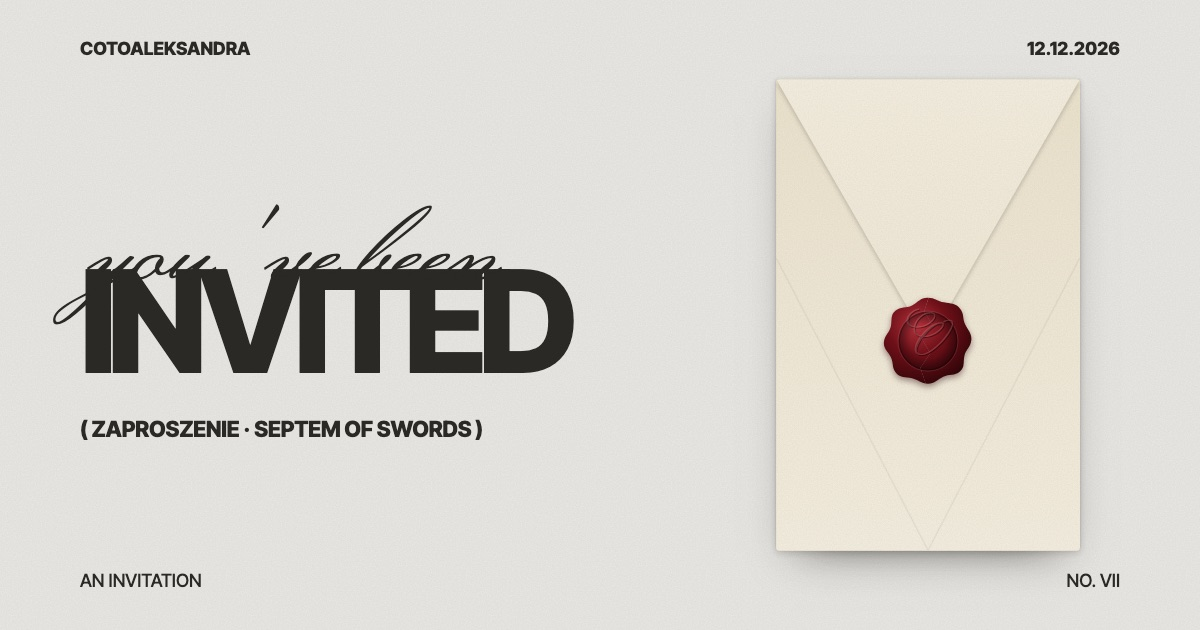
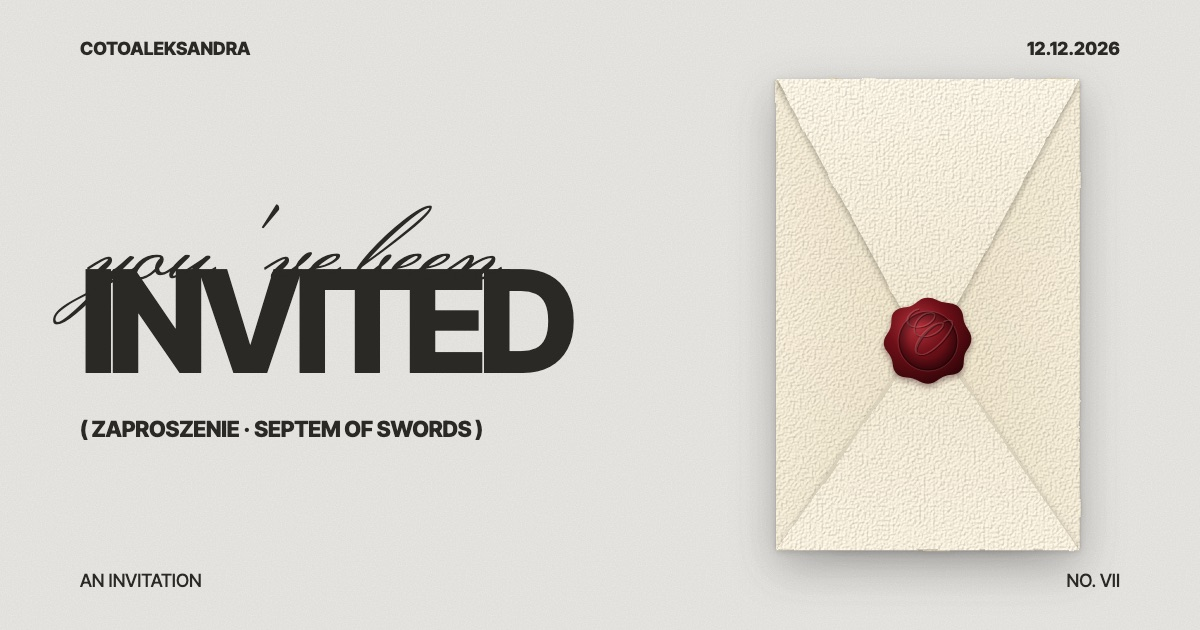
Rough paper envelope; seal peels off instead of cracking; keep open flap on screen

diff --git a/index.html b/index.html
@@ -32,7 +32,38 @@
     <section class="hero" id="hero">
       <div class="stage" id="stage">
         <!-- envelope parts are siblings of the card so the card can sit between them -->
-        <div class="env env-back"></div>
+        <svg class="env-defs" width="0" height="0" aria-hidden="true" focusable="false">
+          <defs>
+            <!-- rough paper: wobbly torn-ish edges + raised tooth lit from the top left -->
+            <filter id="paper-a" x="-4%" y="-4%" width="108%" height="108%" color-interpolation-filters="sRGB">
+              <feTurbulence type="fractalNoise" baseFrequency=".07" numOctaves="3" seed="4" result="warp"/>
+              <feDisplacementMap in="SourceGraphic" in2="warp" scale="1.1" xChannelSelector="R" yChannelSelector="G" result="shape"/>
+              <feTurbulence type="fractalNoise" baseFrequency="1.1" numOctaves="3" seed="11" result="tooth"/>
+              <feDiffuseLighting in="tooth" surfaceScale=".9" lighting-color="#fff" result="lit"><feDistantLight azimuth="225" elevation="52"/></feDiffuseLighting>
+              <feTurbulence type="fractalNoise" baseFrequency=".018" numOctaves="2" seed="2" result="mottle"/>
+              <feColorMatrix in="mottle" type="matrix" values="0 0 0 0 1  0 0 0 0 1  0 0 0 0 1  -.9 0 0 0 .95" result="mottleA"/>
+              <feComposite in="shape" in2="lit" operator="arithmetic" k1=".22" k2=".84" result="tex"/>
+              <feComposite in="tex" in2="mottleA" operator="arithmetic" k1="0" k2="1" k3="-.05" result="tex2"/>
+              <feComposite in="tex2" in2="shape" operator="in"/>
+            </filter>
+            <filter id="paper-b" x="-4%" y="-4%" width="108%" height="108%" color-interpolation-filters="sRGB">
+              <feTurbulence type="fractalNoise" baseFrequency=".07" numOctaves="3" seed="9" result="warp"/>
+              <feDisplacementMap in="SourceGraphic" in2="warp" scale="1.1" xChannelSelector="R" yChannelSelector="G" result="shape"/>
+              <feTurbulence type="fractalNoise" baseFrequency="1.1" numOctaves="3" seed="23" result="tooth"/>
+              <feDiffuseLighting in="tooth" surfaceScale=".9" lighting-color="#fff" result="lit"><feDistantLight azimuth="225" elevation="52"/></feDiffuseLighting>
+              <feComposite in="shape" in2="lit" operator="arithmetic" k1=".22" k2=".84" result="tex"/>
+              <feComposite in="tex" in2="shape" operator="in"/>
+            </filter>
+            <filter id="soft" x="-10%" y="-10%" width="120%" height="130%"><feGaussianBlur stdDeviation="1.1"/></filter>
+            <linearGradient id="g-back" x1="0" y1="0" x2="0" y2="1"><stop offset="0" stop-color="#d9cdb0"/><stop offset="1" stop-color="#e3d8bd"/></linearGradient>
+            <linearGradient id="g-side" x1="0" y1="0" x2="1" y2="0"><stop offset="0" stop-color="#efe7d3"/><stop offset="1" stop-color="#e6dcc3"/></linearGradient>
+            <linearGradient id="g-side-r" x1="1" y1="0" x2="0" y2="0"><stop offset="0" stop-color="#efe7d3"/><stop offset="1" stop-color="#e6dcc3"/></linearGradient>
+            <linearGradient id="g-bottom" x1="0" y1="1" x2="0" y2="0"><stop offset="0" stop-color="#f3ecdb"/><stop offset="1" stop-color="#ebe2cb"/></linearGradient>
+            <linearGradient id="g-flap" x1="0" y1="0" x2="0" y2="1"><stop offset="0" stop-color="#f5efe0"/><stop offset="1" stop-color="#ece3cc"/></linearGradient>
+            <linearGradient id="g-flap-in" x1="0" y1="1" x2="0" y2="0"><stop offset="0" stop-color="#dfd3b6"/><stop offset="1" stop-color="#e8dec5"/></linearGradient>
+          </defs>
+        </svg>
+        <div class="env env-back"><svg viewBox="0 0 116 180" aria-hidden="true"><rect width="116" height="180" rx="1.4" fill="url(#g-back)" filter="url(#paper-a)"/></svg></div>
 
         <div class="card" id="card" role="button" tabindex="-1" aria-label="card">
           <div class="card-inner">
@@ -61,8 +92,25 @@
           </div>
         </div>
 
-        <div class="env env-pocket-wrap"><div class="env-pocket"></div></div>
-        <div class="env env-flap-wrap" id="flap"><div class="env-flap"></div></div>
+        <div class="env env-pocket-wrap"><svg class="env-pocket" viewBox="0 0 116 180" aria-hidden="true">
+          <path d="M1.5 2 L58 93 L114.5 2 V178 H1.5 Z" fill="#e8dec6"/>
+          <g filter="url(#paper-a)">
+            <path d="M0 0 L55 91 Q57.5 95.5 54.5 99 L0 180 Z" fill="url(#g-side)"/>
+            <path d="M116 0 L61 91 Q58.5 95.5 61.5 99 L116 180 Z" fill="url(#g-side-r)"/>
+          </g>
+          <path d="M0 180 L53 104 Q58 97 63 104 L116 180 Z" transform="translate(0 -1.4)" fill="rgba(42,41,38,.12)" filter="url(#soft)"/>
+          <path d="M0 180 L53 104 Q58 97 63 104 L116 180 Z" fill="url(#g-bottom)" filter="url(#paper-b)"/>
+        </svg></div>
+        <div class="env env-flap-wrap" id="flap">
+          <svg class="env-flap" viewBox="0 0 116 180" aria-hidden="true">
+            <path d="M0 0 H116 L62 99 Q58 105 54 99 Z" transform="translate(0 1.6)" fill="rgba(42,41,38,.3)" filter="url(#soft)"/>
+            <path d="M0 0 H116 L62 99 Q58 105 54 99 Z" fill="url(#g-flap)" filter="url(#paper-b)"/>
+            <circle class="residue" cx="58" cy="100.5" r="14" filter="url(#soft)"/>
+          </svg>
+          <svg class="env-flap env-flap-in" viewBox="0 0 116 180" aria-hidden="true">
+            <path d="M0 180 H116 L62 81 Q58 75 54 81 Z" fill="url(#g-flap-in)" filter="url(#paper-a)"/>
+          </svg>
+        </div>
 
         <button class="seal" id="seal" aria-label="Open the envelope">
           <svg viewBox="0 0 120 120" aria-hidden="true">
@@ -76,8 +124,6 @@
                 <stop offset=".6" stop-color="rgba(0,0,0,0)"/>
                 <stop offset="1" stop-color="rgba(0,0,0,.35)"/>
               </radialGradient>
-              <clipPath id="half-l"><path d="M0 0H62L55 22 66 40 52 58 63 77 50 96 58 120H0Z"/></clipPath>
-              <clipPath id="half-r"><path d="M62 0H120V120H58L50 96 63 77 52 58 66 40 55 22Z"/></clipPath>
               <g id="seal-art">
                 <path d="M60 4c9 0 13 5 21 6 9 2 15 1 21 8 6 7 3 13 7 21 4 8 9 12 8 21-1 9-7 12-9 20-2 9 1 15-6 21-7 6-14 3-22 7-8 4-11 9-20 9s-13-5-21-7c-9-2-15 0-21-7s-3-13-7-21c-4-8-10-11-9-20 1-9 7-12 9-20 2-8-1-15 6-21 7-6 14-3 22-7 8-4 11-10 20-10z" fill="url(#wax)"/>
                 <circle cx="60" cy="61" r="38" fill="url(#press)"/>
@@ -87,8 +133,7 @@
                 <text id="seal-txt2" x="59" y="75" text-anchor="middle" font-family="Monsieur La Doulaise, cursive" font-size="54" fill="rgba(255,170,170,.22)"></text>
               </g>
             </defs>
-            <g class="half l"><use href="#seal-art" clip-path="url(#half-l)"/></g>
-            <g class="half r"><use href="#seal-art" clip-path="url(#half-r)"/></g>
+            <use href="#seal-art"/>
           </svg>
         </button>
       </div>

diff --git a/invite.css b/invite.css
@@ -61,53 +61,43 @@ body.opened .furn--bottom { position: static; }
 .env { position: absolute; inset: 0; transition: transform 1s cubic-bezier(.6, -.05, .7, .2), opacity 1s; }
 .stage.dropped .env, .stage.dropped .seal { transform: translateY(115vh) rotate(6deg); opacity: 0; pointer-events: none; }
 .stage.gone .env, .stage.gone .seal { visibility: hidden; }
-.env-back {
-  z-index: 1; border-radius: 4px;
-  background: var(--cream-3) var(--grain);
-  box-shadow: 0 18px 40px -18px rgba(42, 41, 38, .5), 0 2px 6px rgba(42, 41, 38, .18);
-}
-.env-pocket-wrap { z-index: 3; filter: drop-shadow(0 -1px 1px rgba(42, 41, 38, .18)); pointer-events: none; }
-.env-pocket {
-  position: absolute; inset: 0; border-radius: 0 0 4px 4px;
-  background:
-    linear-gradient(to top right, transparent 49.6%, rgba(42,41,38,.07) 50%, transparent 50.6%) left bottom / 50% 62% no-repeat,
-    linear-gradient(to top left, transparent 49.6%, rgba(42,41,38,.07) 50%, transparent 50.6%) right bottom / 50% 62% no-repeat,
-    var(--grain), linear-gradient(180deg, var(--cream-2), var(--cream));
-  clip-path: polygon(0 0, 50% 50%, 100% 0, 100% 100%, 0 100%);
-}
+.env svg { position: absolute; inset: 0; width: 100%; height: 100%; overflow: visible; }
+.env-defs { position: absolute; width: 0; height: 0; }
+.env-back { z-index: 1; filter: drop-shadow(0 16px 22px rgba(42, 41, 38, .28)) drop-shadow(0 2px 3px rgba(42, 41, 38, .2)); }
+.env-pocket-wrap { z-index: 3; filter: drop-shadow(0 -1px 1px rgba(42, 41, 38, .16)); pointer-events: none; }
+/* the flap is a 3D hinge: no CSS filter on it (filters flatten 3D and break it in Safari); its shadow is drawn in the SVG */
 .env-flap-wrap {
   z-index: 4; transform-origin: 50% 0; transform-style: preserve-3d;
-  filter: drop-shadow(0 3px 2px rgba(42, 41, 38, .22));
-  transition: transform .75s cubic-bezier(.45, 0, .2, 1);
+  transition: transform .8s cubic-bezier(.45, 0, .2, 1);
   pointer-events: none;
 }
-.env-flap {
-  position: absolute; inset: 0;
-  background: var(--grain), linear-gradient(180deg, var(--cream), var(--cream-2));
-  clip-path: polygon(0 0, 100% 0, 50% 56%);
-  border-radius: 4px 4px 0 0;
-}
+.env-flap { backface-visibility: hidden; -webkit-backface-visibility: hidden; }
+.env-flap-in { transform: rotateX(180deg); }
+.residue { fill: var(--wax, #6e1018); opacity: 0; transition: opacity .5s .25s; }
+.stage.peeled .residue { opacity: .14; }
 .stage.open .env-flap-wrap { transform: rotateX(178deg); }
 .stage.flap-behind .env-flap-wrap { z-index: 0; }
 .stage.dropped .env-flap-wrap { transform: translateY(115vh) rotateX(178deg); }
+/* while it opens, step back a little so the open flap and the rising card stay on screen */
+.stage { transform-origin: 50% 100%; transition: scale .9s cubic-bezier(.4, 0, .2, 1), translate .9s cubic-bezier(.4, 0, .2, 1); }
+.stage.open:not(.dropped) { scale: .8; translate: 0 9%; }
 
 /* wax seal */
 .seal {
   position: absolute; z-index: 6; width: calc(var(--ew) * .3); aspect-ratio: 1;
-  left: 50%; top: calc(var(--eh) * .56); transform: translate(-50%, -50%);
+  left: 50%; top: calc(var(--eh) * .56); transform: translate(-50%, -50%); transform-origin: 82% 18%;
   filter: drop-shadow(0 3px 3px rgba(40, 5, 8, .45)); transition: transform 1s cubic-bezier(.6, -.05, .7, .2), opacity 1s;
   animation: breathe 2.8s ease-in-out infinite;
 }
 .seal svg { width: 100%; height: 100%; overflow: visible; }
-.seal .half { transition: transform .7s cubic-bezier(.3, .6, .4, 1), opacity .7s .15s; transform-box: fill-box; }
-.seal .half.l { transform-origin: 30% 80%; }
-.seal .half.r { transform-origin: 70% 80%; }
-.stage.cracked .seal { animation: crack-shake .28s linear; }
-.stage.cracked .seal .half.l { transform: translate(-26px, 34px) rotate(-28deg); opacity: 0; }
-.stage.cracked .seal .half.r { transform: translate(26px, 40px) rotate(24deg); opacity: 0; }
-.stage.cracked .seal { pointer-events: none; }
+.stage.peeled .seal { animation: peel .75s cubic-bezier(.55, 0, .7, .4) forwards; pointer-events: none; }
 @keyframes breathe { 50% { transform: translate(-50%, -50%) scale(1.04); } }
-@keyframes crack-shake { 25% { transform: translate(-52%, -50%) rotate(-3deg); } 75% { transform: translate(-48%, -50%) rotate(3deg); } }
+/* peels off like a sticker: the bottom-left edge lifts first, then it comes away */
+@keyframes peel {
+  0%   { transform: translate(-50%, -50%); filter: drop-shadow(0 3px 3px rgba(40, 5, 8, .45)); }
+  35%  { transform: translate(-50%, -52%) rotate3d(1, -1, 0, 38deg); filter: drop-shadow(-4px 8px 6px rgba(40, 5, 8, .4)); }
+  100% { transform: translate(10%, -150%) rotate3d(1, -1, .3, 95deg); filter: drop-shadow(-10px 22px 14px rgba(40, 5, 8, 0)); opacity: 0; }
+}
 
 /* ───────── the card ───────── */
 .card {

diff --git a/invite.js b/invite.js
@@ -37,6 +37,7 @@
   const t = (k, ...a) => { const v = T[lang][k]; return typeof v === "function" ? v(...a) : v; };
 
   const stage = $("#stage"), card = $("#card");
+  stage.style.setProperty("--wax", (C.seal && C.seal.wax) || "#6e1018");
   let phase = "closed"; // closed → opening → open
   let photoSrc = null;
 
@@ -96,8 +97,8 @@
     if (phase !== "closed") return;
     phase = "opening"; $("#hint").textContent = "";
     if (navigator.vibrate) navigator.vibrate(18);
-    stage.classList.add("cracked");
-    await wait(450);
+    stage.classList.add("peeled");
+    await wait(620);
     stage.classList.add("open");
     await wait(380);
     stage.classList.add("flap-behind");
@@ -201,7 +202,7 @@
   function showOpened() {
     // skip the envelope (link from the email: ?open=1)
     stage.style.animation = "none";
-    stage.classList.add("cracked", "open", "flap-behind", "rising", "dropped", "gone", "instant");
+    stage.classList.add("peeled", "open", "flap-behind", "rising", "dropped", "gone", "instant");
     phase = "open";
     card.setAttribute("tabindex", "0");
     document.body.classList.add("opened");
